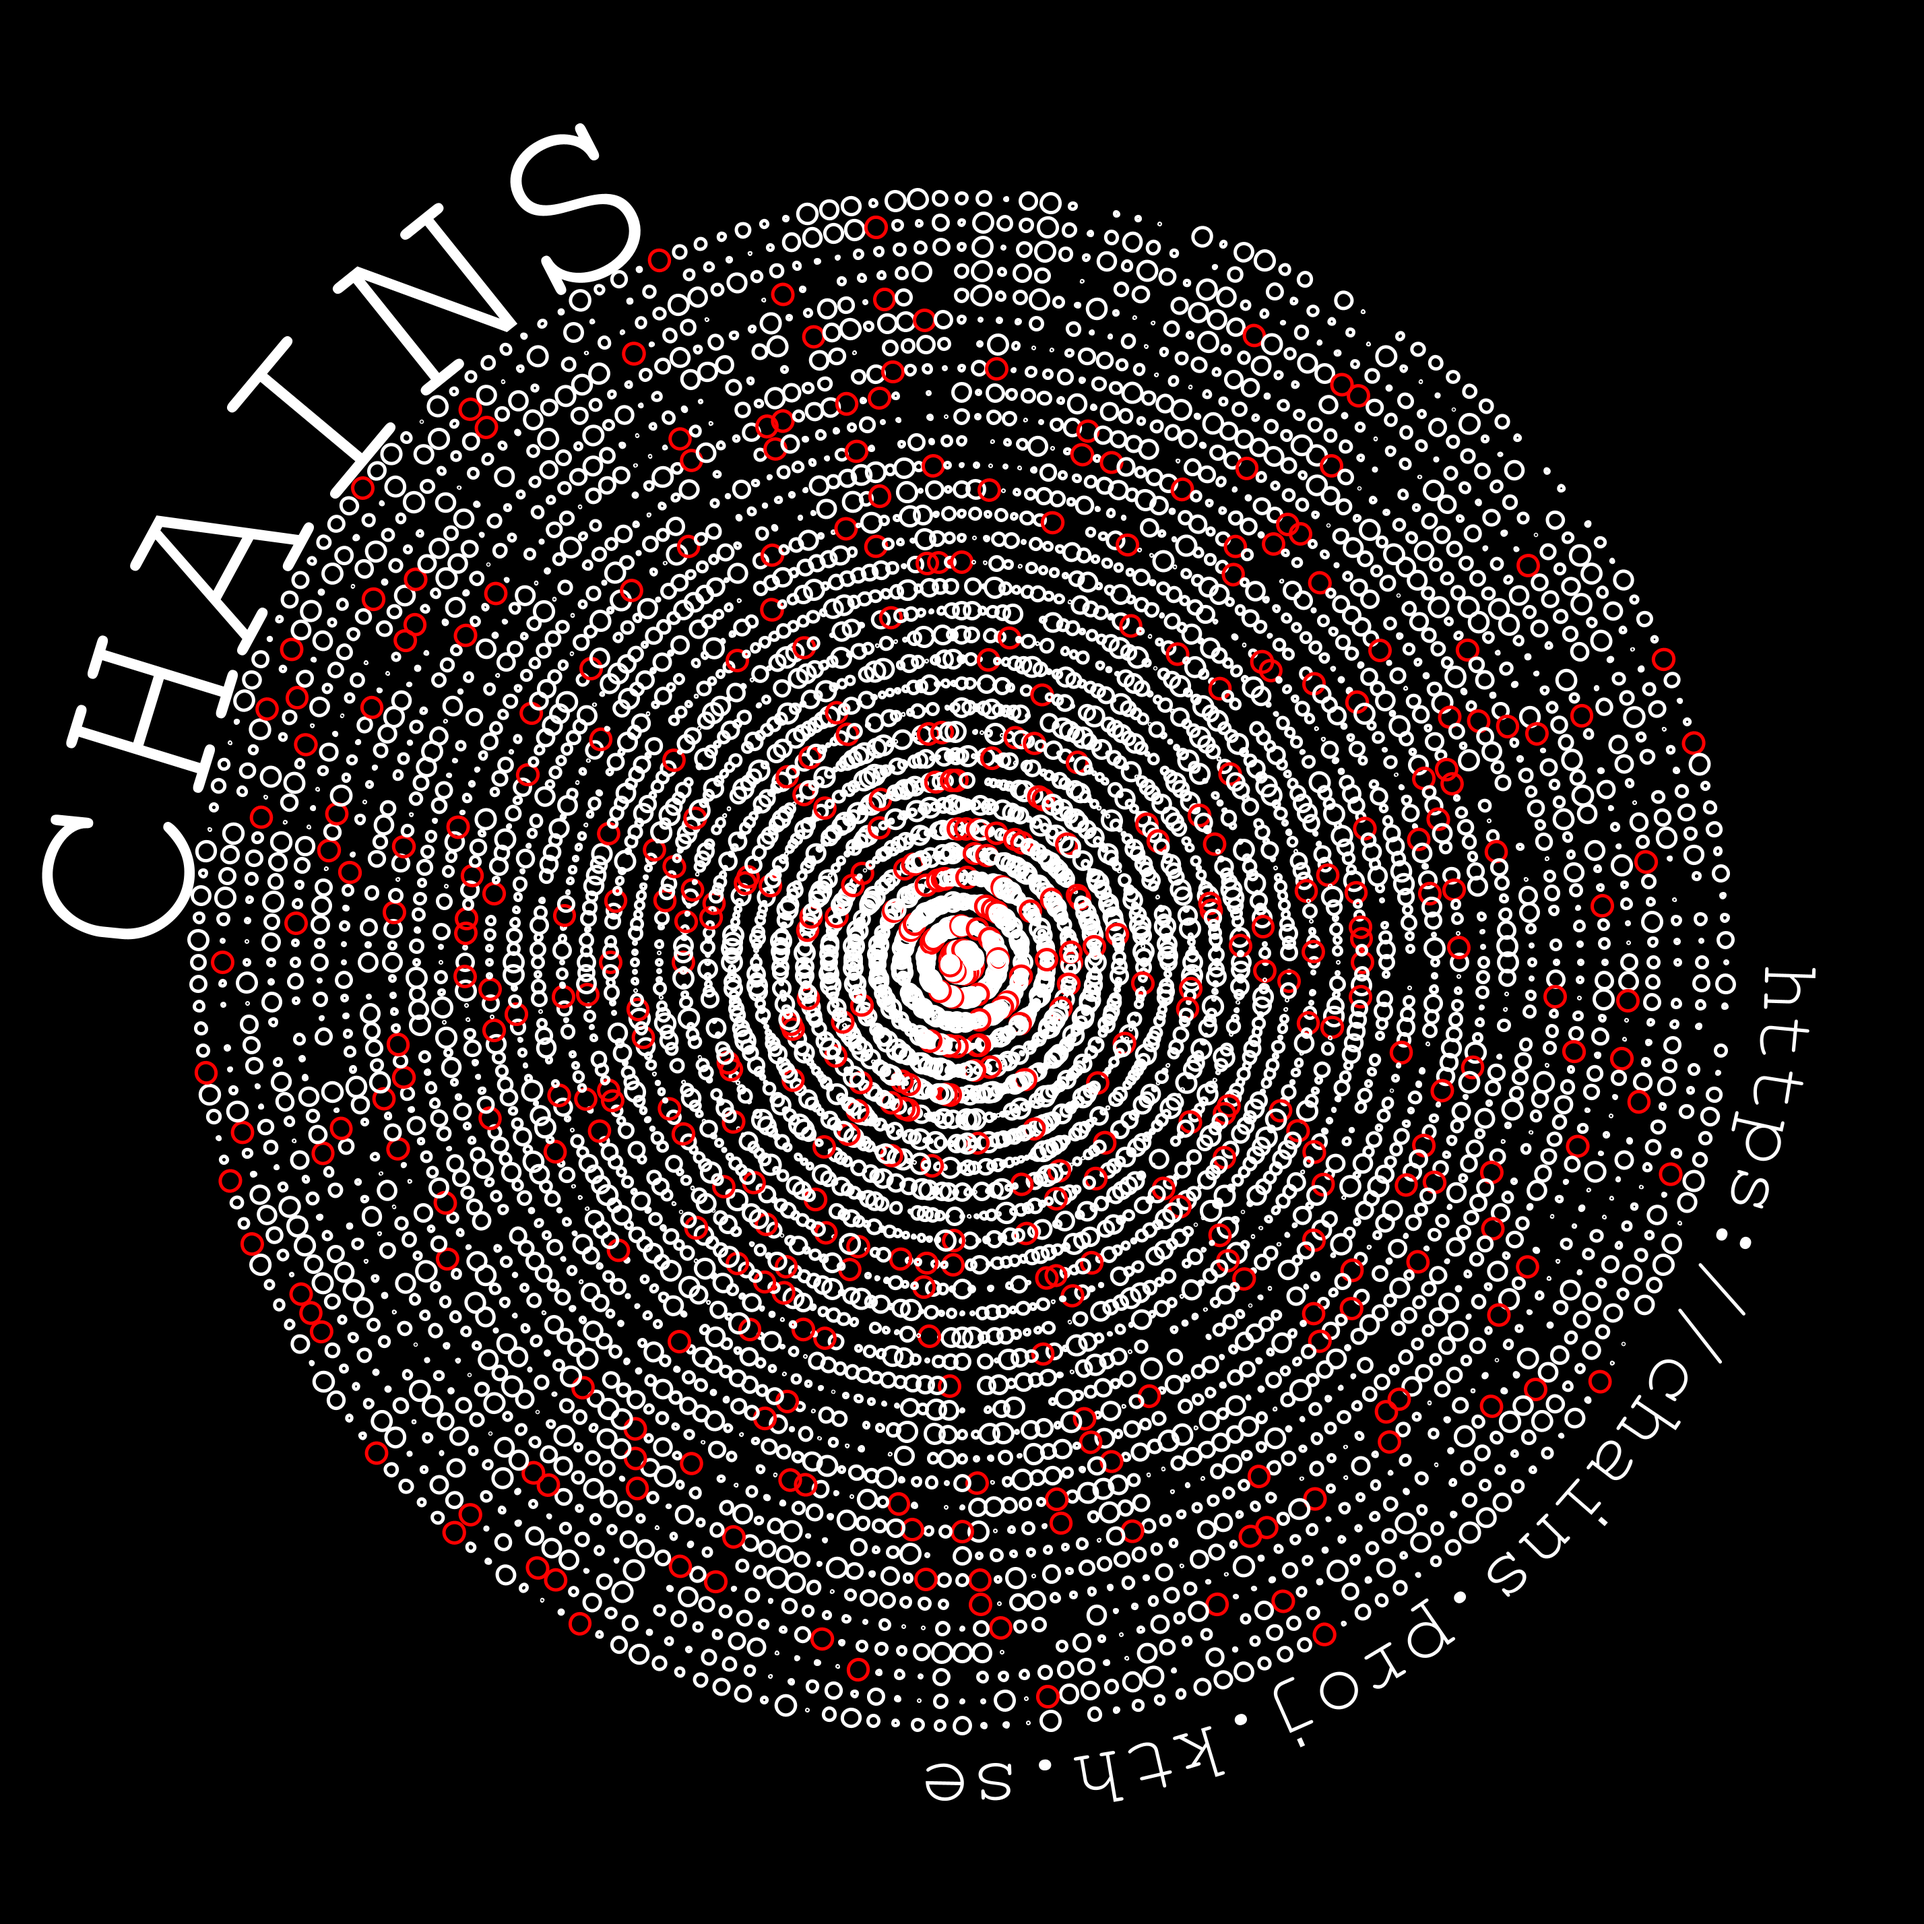
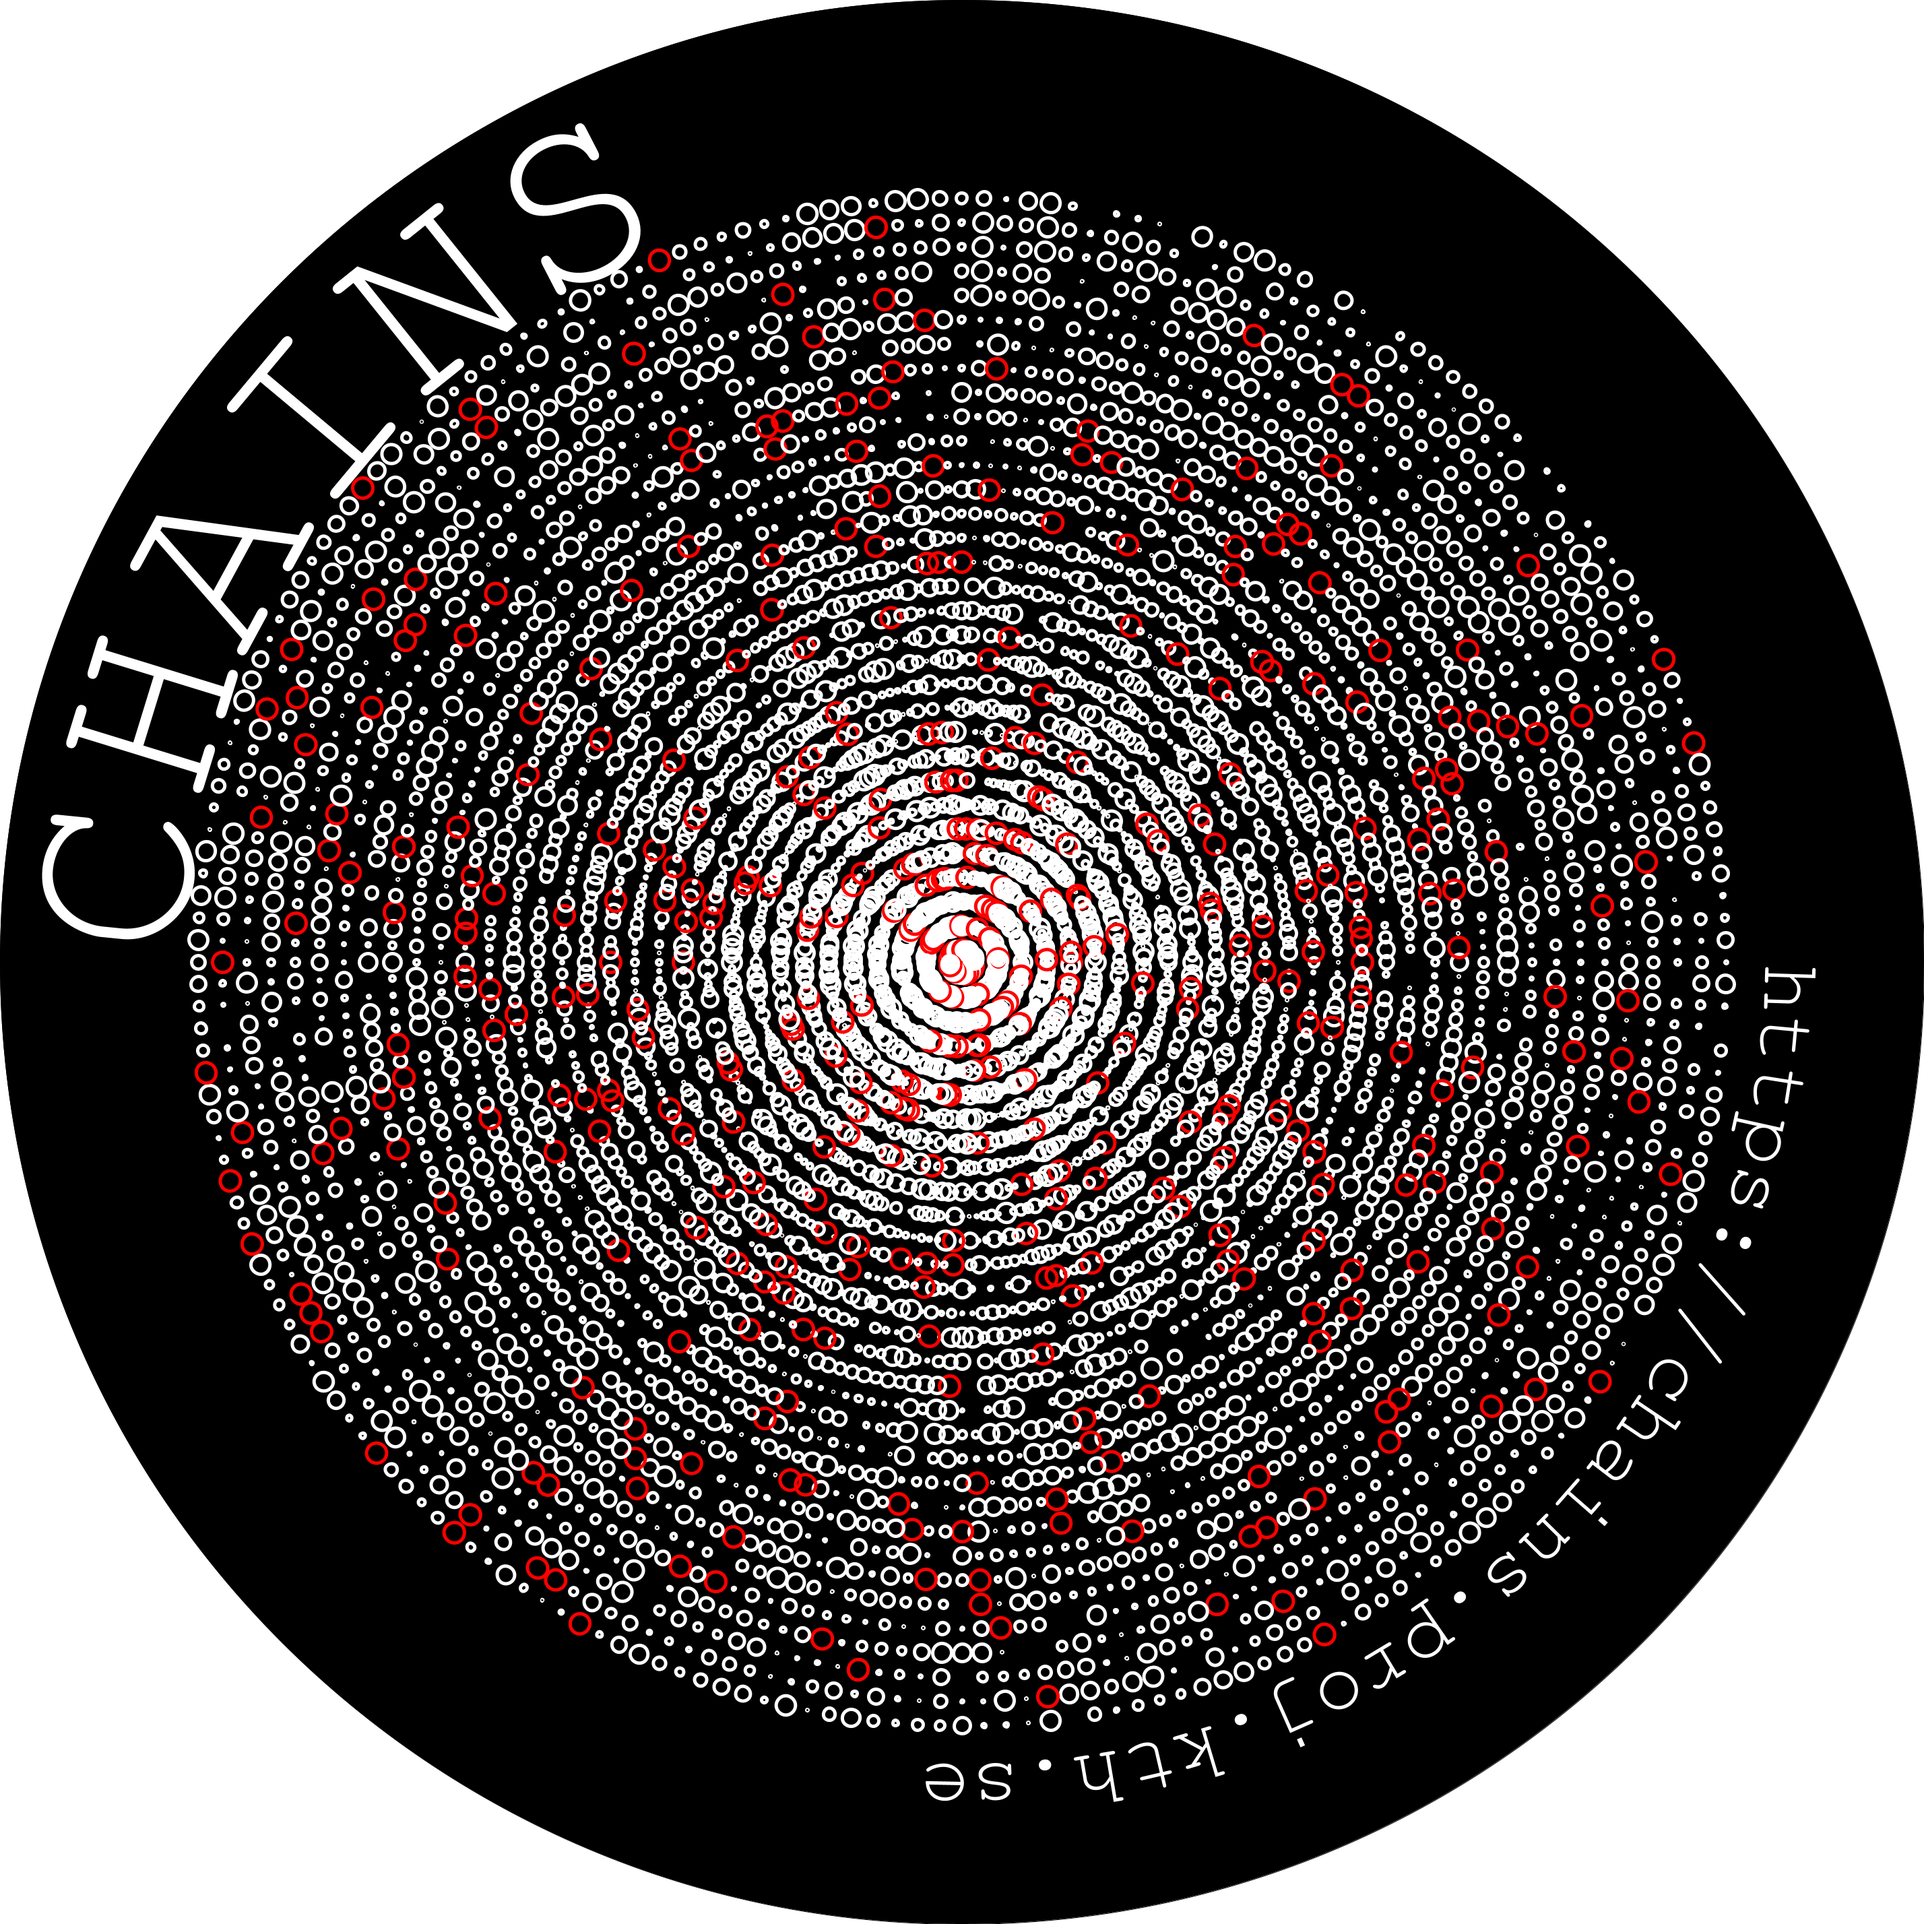
in a white square

Changed region(s): [[0.0, 0.0, 1.0, 1.0], [0.0, 0.0, 0.4363, 0.4363]]

diff --git a/stickers/src/main/java/ChainsSticker002.java b/stickers/src/main/java/ChainsSticker002.java
@@ -21,7 +21,7 @@ public class ChainsSticker002 extends PApplet {
     String fileName = "./stickers/src/main/resources/bomJenkins.json";
     int resolution = 2;
     int thickness = 5;
-    String shape = "line"; // can take 3 values: "square", "circle", "line"
+    String shape = "circle"; // can take 3 values: "square", "circle", "line"
     int shalen = 64; // length of a sha-256 in hex
     int bytelen = 16; // number of values in hex
     int offset = 276; // margin around the image
@@ -48,7 +48,9 @@ public class ChainsSticker002 extends PApplet {
     @Override
     public void setup() {
         colorMode(HSB, 360, 100, 100);
-        background(0, 0, 0);
+        background(0, 0, 100);
+        fill(0,0,0);
+        ellipse(w/2,h/2,w,w);
         initMapHex();
         get_shas();
         angle_step = 180.0 / hashes.size();
